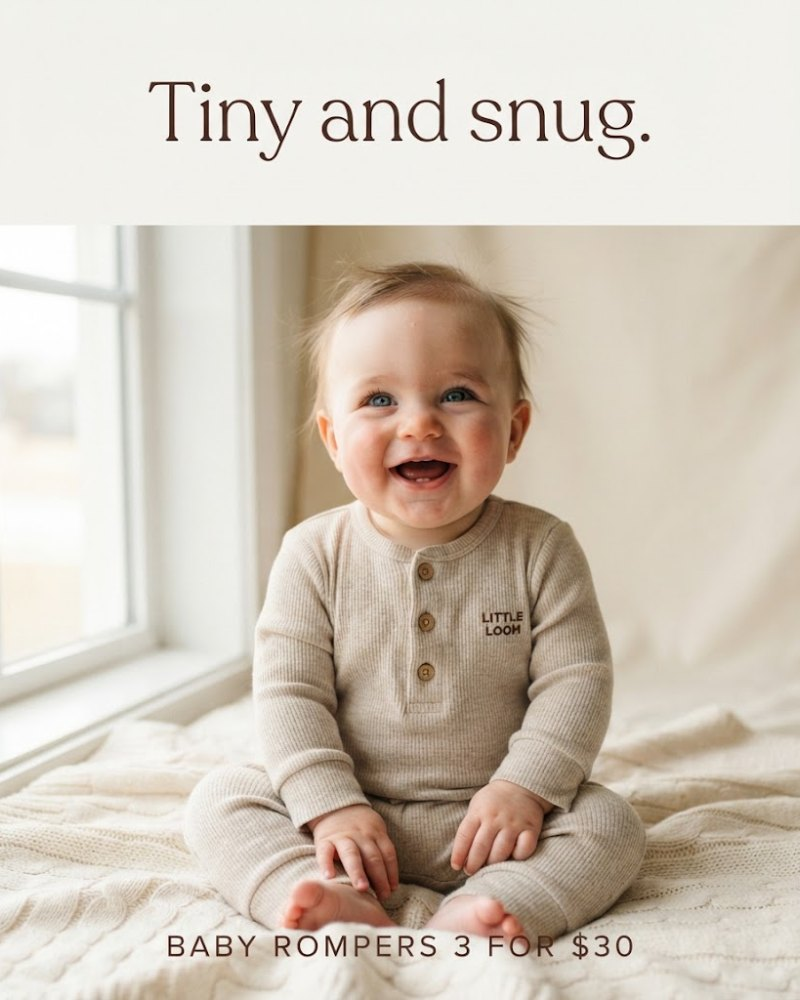
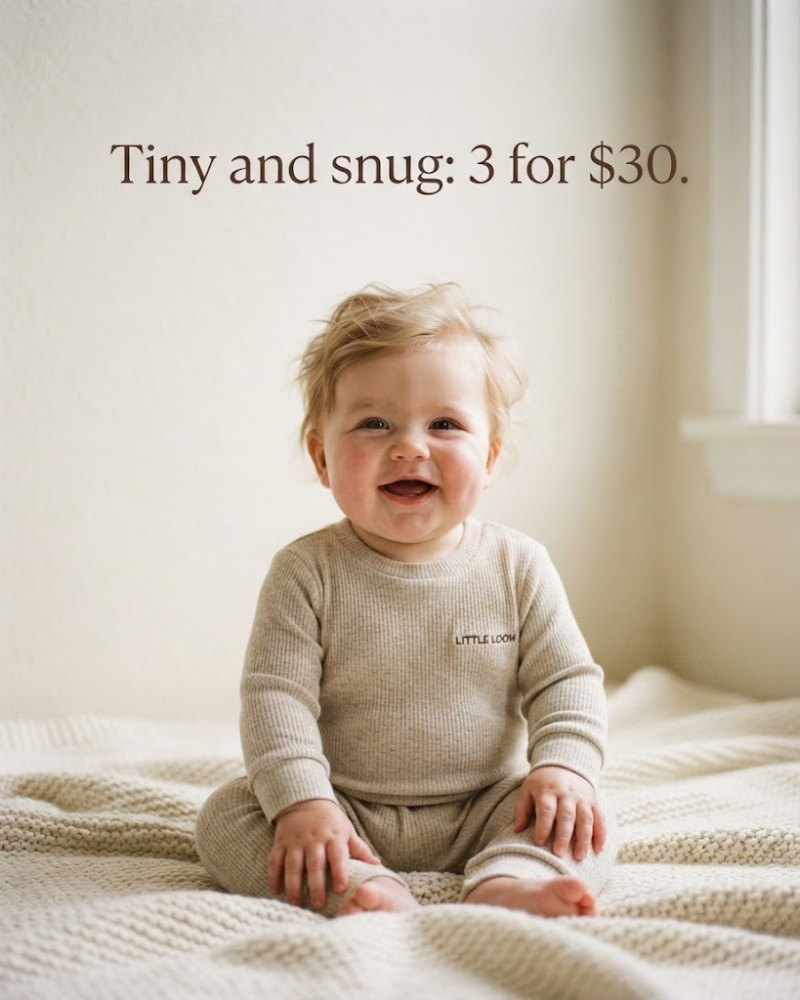
Templates: sundress, sneaker duo, throw blanket; baby ad redone without the top strip

diff --git a/src/data.jsx b/src/data.jsx
@@ -6,6 +6,33 @@ const CATEGORIES = ["All", "Beauty & Skincare", "Fashion", "Electronics", "Local
 /* Each template carries its own CSS-built ad creative (art). No external media. */
 const TEMPLATES = [
   {
+    id: "cr-throw", type: "static", trending: true, isNew: true, brandName: "HYGGELY",
+    category: "Home & Decor", label: "Home & Decor", title: "Cozy Is a Category",
+    format: "4:5 · Static · Pro model photoshoot", framework: "Offer",
+    art: { kind: "quote", bg: "linear-gradient(160deg,#1e293b 0%,#020617 100%)", hl: "#f8fafc", hook: "COZY IS A CATEGORY: 30% OFF", text: "Cozy Is a Category", sign: "HYGGELY", tag: "Home & Decor" },
+    why: ["A woman wrapped in a chunky knit throw with a hot mug is winter comfort.","Cream serif printed on the dark wall behind her stays readable."],
+    headline: "COZY IS A CATEGORY: 30% OFF",
+    primary: "A woman wrapped in a cream knit throw holding a mug on a grey sofa. The brand shown is a made-up placeholder: your name and logo replace it.",
+  },
+  {
+    id: "cr-sneakerduo", type: "static", trending: true, isNew: true, brandName: "NIMBUS",
+    category: "Fashion", label: "Fashion", title: "New Drop Sneakers",
+    format: "4:5 · Static · Pro model photoshoot", framework: "Offer",
+    art: { kind: "quote", bg: "linear-gradient(160deg,#1e293b 0%,#020617 100%)", hl: "#f8fafc", hook: "NEW DROP: 2 FOR $120", text: "New Drop Sneakers", sign: "NIMBUS", tag: "Fashion" },
+    why: ["Two friends in cream hoodies and white sneakers on baby blue is a clean flash campaign.","White type with a navy shadow reads clearly against the backdrop."],
+    headline: "NEW DROP: 2 FOR $120",
+    primary: "A man and a woman in cream hoodies and white sneakers on a baby-blue backdrop. The brand shown is a made-up placeholder: your name and logo replace it.",
+  },
+  {
+    id: "cr-sundress", type: "static", trending: true, isNew: true, brandName: "MARIGOLD",
+    category: "Fashion", label: "Fashion", title: "Sundress Season",
+    format: "4:5 · Static · Pro model photoshoot", framework: "Offer",
+    art: { kind: "quote", bg: "linear-gradient(160deg,#1e293b 0%,#020617 100%)", hl: "#f8fafc", hook: "SUNDRESS SEASON. 3 FOR $75", text: "Sundress Season", sign: "MARIGOLD", tag: "Fashion" },
+    why: ["A woman twirling in a butter-yellow dress at golden hour is the feeling summer sells.","Burnt-orange script on the glowing sky has strong contrast."],
+    headline: "SUNDRESS SEASON. 3 FOR $75",
+    primary: "A woman laughing and twirling in a yellow sundress in a wheat field at golden hour. The brand shown is a made-up placeholder: your name and logo replace it.",
+  },
+  {
     id: "cr-tennis", type: "static", trending: true, isNew: true, brandName: "ACEHOUSE",
     category: "Sport & Fitness", label: "Sport & Fitness", title: "Game Set Sale",
     format: "4:5 · Static · Pro model photoshoot", framework: "Offer",
@@ -180,9 +207,9 @@ const TEMPLATES = [
     id: "cr-baby", type: "static", trending: true, isNew: true, brandName: "LITTLE LOOM",
     category: "Kids & Baby", label: "Kids & Baby", title: "Tiny and Snug",
     format: "4:5 · Static · Pro model photoshoot", framework: "Offer",
-    art: { kind: "quote", bg: "linear-gradient(160deg,#1e293b 0%,#020617 100%)", hl: "#f8fafc", hook: "TINY AND SNUG. BABY ROMPERS 3 FOR $30", text: "Tiny and Snug", sign: "LITTLE LOOM", tag: "Kids & Baby" },
+    art: { kind: "quote", bg: "linear-gradient(160deg,#1e293b 0%,#020617 100%)", hl: "#f8fafc", hook: "TINY AND SNUG: 3 FOR $30", text: "Tiny and Snug", sign: "LITTLE LOOM", tag: "Kids & Baby" },
     why: ["A laughing baby in an oatmeal romper is warm and shows the product clearly.","Deep brown thin serif on soft cream stays calm and readable."],
-    headline: "TINY AND SNUG. BABY ROMPERS 3 FOR $30",
+    headline: "TINY AND SNUG: 3 FOR $30",
     primary: "A laughing baby in an oatmeal knit romper on a cream blanket. The brand shown is a made-up placeholder: your name and logo replace it.",
   },
   {

diff --git a/src/featuredOrder.js b/src/featuredOrder.js
@@ -1,6 +1,7 @@
 /* Hand-set order for the Featured sort. FEATURED_TOP come first, in this order; FEATURED_LAST sink to the end.
    Everything else keeps its order in data.jsx. Edit these two lists to curate the gallery. */
 const FEATURED_TOP = [
+  "cr-sundress", "cr-sneakerduo", "cr-throw",
   "cr-baubles", "cr-blocks", "cr-bodymist", "cr-cocoa", "cr-dogsweater", "cr-hairdryer", "cr-leggings", "cr-proteinbar", "cr-smartwatch", "cr-swim", "cr-tennis",
   "cr-bride", "cr-dogtoy",
   "cr-nailpolish", "cr-passport", "cr-giftbox",

diff --git a/src/templateImgs.js b/src/templateImgs.js
@@ -1,5 +1,8 @@
 const B = import.meta.env.BASE_URL;
 const TEMPLATE_IMGS = {
+  "cr-throw": B + "templates/cr-throw.jpg",
+  "cr-sneakerduo": B + "templates/cr-sneakerduo.jpg",
+  "cr-sundress": B + "templates/cr-sundress.jpg",
   "cr-tennis": B + "templates/cr-tennis.jpg",
   "cr-swim": B + "templates/cr-swim.jpg",
   "cr-smartwatch": B + "templates/cr-smartwatch.jpg",

diff --git a/src/addedDates.js b/src/addedDates.js
@@ -1,5 +1,8 @@
 /* When each template first appeared (unix seconds, from the git history of its image). Used by the Recently added sort and filter. */
 const ADDED = {
+  "cr-throw": 1793202627,
+  "cr-sneakerduo": 1793202626,
+  "cr-sundress": 1793202625,
   "cr-tennis": 1793202565,
   "cr-swim": 1793202564,
   "cr-smartwatch": 1793202563,
